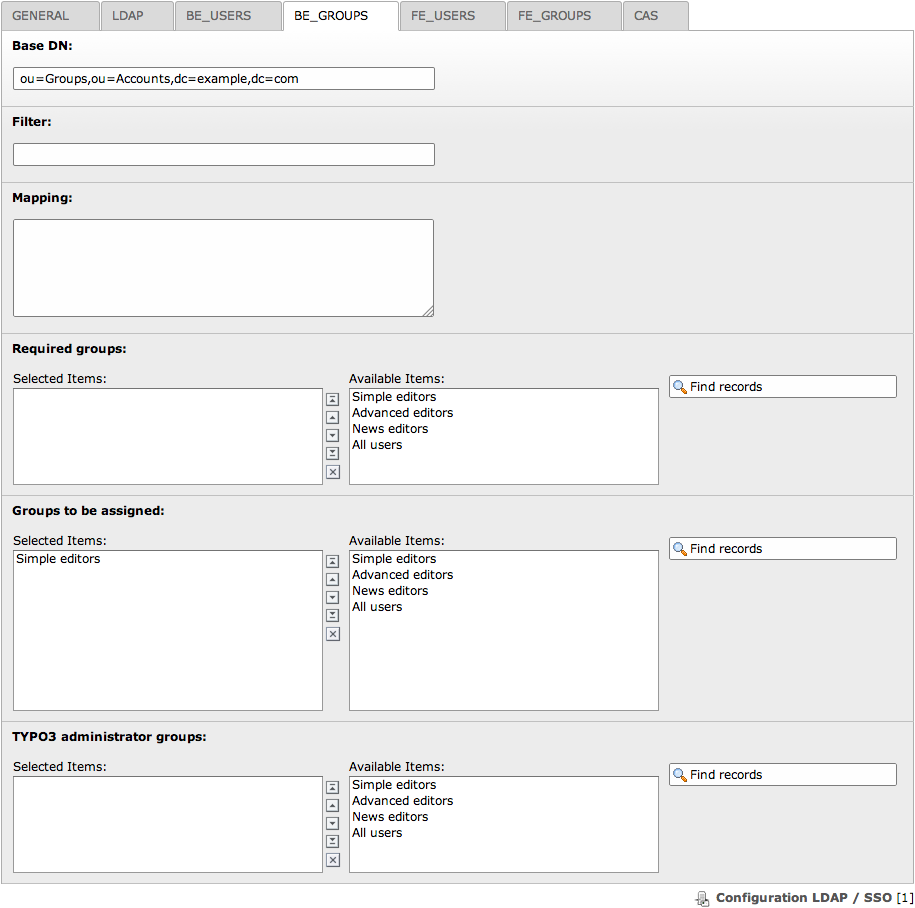
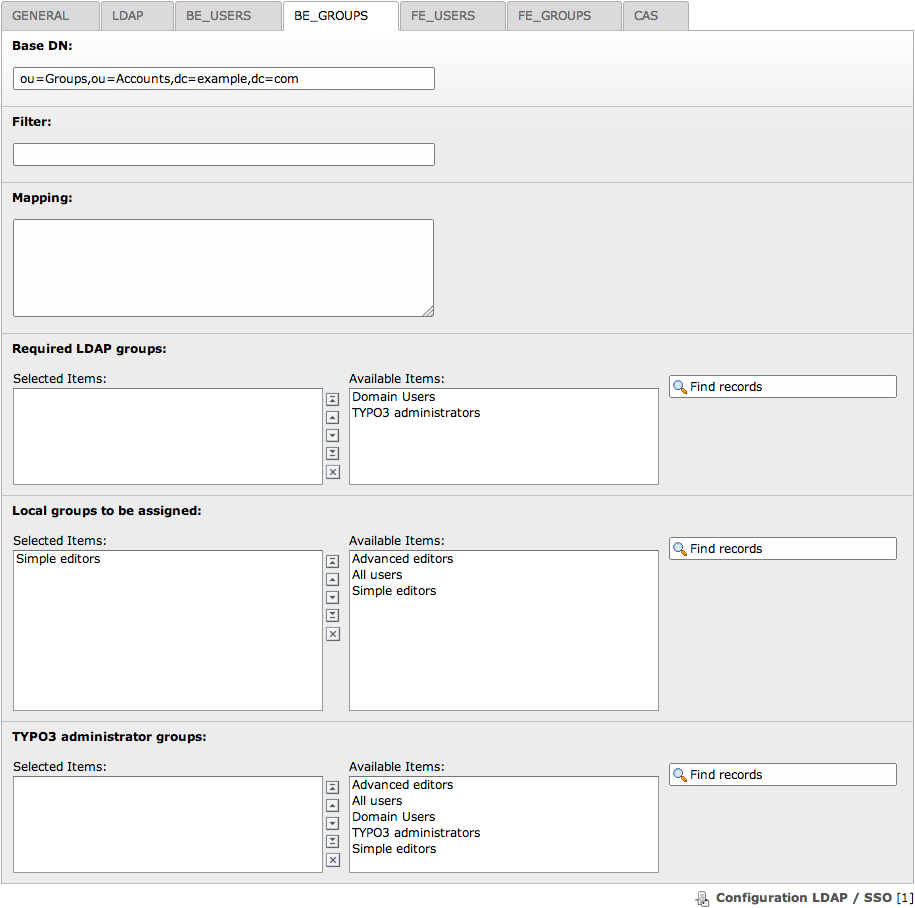
[FEATURE] Filter non-LDAP BE/FE groups in the configuration
The list of required groups should show only LDAP-related groups whereas
the groups to be assigned upon successful authentication should show
only local groups because LDAP-related group membership should be
managed in LDAP and not in TYPO3.

Resolves: #60073

diff --git a/Configuration/TCA/Config.php b/Configuration/TCA/Config.php
@@ -224,6 +224,7 @@ $TCA['tx_igldapssoauth_config'] = array(
 			'config' => array(
 				'type' => 'select',
 				'foreign_table' => 'be_groups',
+				'foreign_table_where' => 'AND be_groups.tx_igldapssoauth_dn<>\'\' ORDER BY be_groups.title',
 				'size' => 6,
 				'minitems' => 0,
 				'maxitems' => 30,
@@ -242,6 +243,7 @@ $TCA['tx_igldapssoauth_config'] = array(
 			'config' => array(
 				'type' => 'select',
 				'foreign_table' => 'be_groups',
+				'foreign_table_where' => 'AND be_groups.tx_igldapssoauth_dn=\'\' ORDER BY be_groups.title',
 				'size' => 10,
 				'minitems' => 0,
 				'maxitems' => 30,
@@ -260,6 +262,7 @@ $TCA['tx_igldapssoauth_config'] = array(
 			'config' => array(
 				'type' => 'select',
 				'foreign_table' => 'be_groups',
+				'foreign_table_where' => 'ORDER BY be_groups.title',
 				'size' => 6,
 				'minitems' => 0,
 				'maxitems' => 30,
@@ -332,6 +335,7 @@ $TCA['tx_igldapssoauth_config'] = array(
 			'config' => array(
 				'type' => 'select',
 				'foreign_table' => 'fe_groups',
+				'foreign_table_where' => 'AND fe_groups.tx_igldapssoauth_dn<>\'\' ORDER BY fe_groups.title',
 				'size' => 6,
 				'minitems' => 0,
 				'maxitems' => 30,
@@ -350,6 +354,7 @@ $TCA['tx_igldapssoauth_config'] = array(
 			'config' => array(
 				'type' => 'select',
 				'foreign_table' => 'fe_groups',
+				'foreign_table_where' => 'AND fe_groups.tx_igldapssoauth_dn=\'\' ORDER BY fe_groups.title',
 				'size' => 10,
 				'minitems' => 0,
 				'maxitems' => 30,
